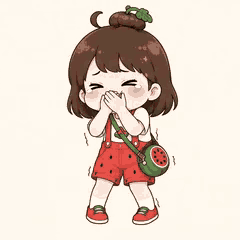
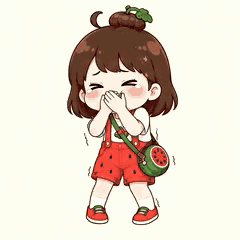
fix: recorrect 难绷憋笑 cherry-red; require color QC in skill

diff --git a/src/lib/packs.ts b/src/lib/packs.ts
@@ -247,11 +247,11 @@ export const PACKS: Pack[] = [
 ];
 
 export function stickerGif(packId: string, stickerId: string) {
-  return `/stickers/${packId}/${stickerId}.gif?v=77`;
+  return `/stickers/${packId}/${stickerId}.gif?v=78`;
 }
 
 export function stickerPng(packId: string, stickerId: string) {
-  return `/stickers/${packId}/${stickerId}.png?v=77`;
+  return `/stickers/${packId}/${stickerId}.png?v=78`;
 }
 
 export function getPack(id: string) {

diff --git a/src/routes/pack.$id.tsx b/src/routes/pack.$id.tsx
@@ -81,7 +81,7 @@ function PackPage() {
           </button>
           {inProgress ? null : (
             <a
-              href={`/downloads/${pack.id}.zip?v=77`}
+              href={`/downloads/${pack.id}.zip?v=78`}
               download={`${pack.name}.zip`}
               className="inline-flex h-11 items-center justify-center rounded-md border border-line px-4 text-sm font-semibold text-ink"
             >

diff --git a/public/downloads/duomei-stickers-SKILL.md b/public/downloads/duomei-stickers-SKILL.md
@@ -1,33 +1,100 @@
 ---
 name: duomei-stickers
 description: >
-  多美表情包。默认西瓜原皮，用户可指定皮肤或让你生成新皮肤。
-  6秒视频取约3秒完整动作，ffmpeg 转 GIF，必须 30fps。
-  Triggers: 表情包, sticker, GIF, 多美, 打你, 暴躁, 上号, 日常, 皮肤, 设定图.
+  多美表情包通用制作流程。主角永远是多美。用户只说主题时先读本 skill 再开工。
+  默认西瓜原皮；6秒视频取约3秒；ffmpeg 转 240×240 GIF；30fps；400–500KB。
+  Triggers: 表情包, sticker, GIF, 多美, 贴纸, 皮肤, 设定图.
 metadata:
-  short-description: "默认原皮，可指定/生成皮肤，3秒30fps GIF"
+  short-description: "多美表情包：搜热门 / 3s 30fps / 400-500KB / 过不了必须改"
 user-invocable: true
 ---
 
-# 皮肤
+# 每次开工
 
-- **没说皮肤 = 西瓜原皮**（红背带、白T、西瓜包、西瓜髻+藤）。不要每次强调「必须原皮」。
-- 用户指定皮肤就用指定的。
-- 用户让生成皮肤：出新设定图，存进 `public/refs/` 和 `assets/masters/`，以后这套都锁这张。
-- 设定图已经有：`public/refs/watermelon-white.jpg`（原皮）、`public/refs/duomei-master-sheet.jpg`。
+1. 读完本 skill。用户说「做××主题表情包」= 按这里执行，不要再问已定规矩。
+2. **先搜**这个主题的热门表情包（微信 / QQ / 微博、LINE、Telegram）。学做法：镜头、节奏、循环、什么时候加字。禁止抄 gag、抄构图、抄别人角色。
+3. 先写这一套的动作清单（默认 16 张）。每张：姿势、镜头、情绪、打谁、加不加字。动作必须互不相同。
+4. 用户没点名的旧表情 **禁止重做**（不许顺手改时长、改字、换动作）。
 
-# 强制流程（跳过 = 不许交付）
+# 角色
 
-1. 看实物，学**做法**。不抄别人的 gag 和构图。
-2. 写出方案。没让改的表情禁止重做。
-3. **一板多张**静帧，打分过了才做 **6 秒** 视频。
-4. **视频检查**：动作合理。不对就重生成。分身、多手、脸漂 = 打回。
-5. **视频转 GIF**：ffmpeg 整段转。取 **约 3 秒** 完整动作，**30fps**。禁止抽成几张静帧。
-6. **GIF 再查**：时长约 3 秒，封面 = 第一帧，格子能看懂。
-7. 飞踢必须把猪踢飞，不能站着挨踢。
+- **主角永远是多美。** 脸、发型、体型不许换。
+- **没说皮肤 = 西瓜原皮**（红背带、白 T、西瓜包、西瓜髻 + 藤、红鞋）。
+- 指定皮肤就换。让生成新皮肤：先出设定图，存设定图，这套全部锁这张。
+- 一套一种皮。禁止中途换脸换头。
+- 原皮设定图：`public/refs/watermelon-white.jpg`。
 
-及格线：
-- 成品约 3 秒、30fps
-- 默认原皮；指定了皮肤就换
-- 标题 = 画面动作
-- 打人要生气，禁止微笑打人
+# 颜色（每次交付前必须做，过不了不许发）
+
+对照 `public/refs/watermelon-white.jpg`（或这套锁定的设定图），把 GIF **第一帧、中间帧、最后一帧** 和设定图并排看。
+
+必须：
+- 背带是樱桃红（参考大约 R 210–225，G 80–100，B 70–85），不是灰、绿、橘、品红、棕
+- 底是奶油白，不是黄绿、脏黄、灰
+- 皮肤不是发青、发灰
+- 压缩后不能丢色。palette **尽量 48–64**，32 是下限。禁止 8/16 色把红衣服压灰
+- 源视频已经偏色 = **重生成视频**，不要硬转
+- 转 GIF 可用 `eq` / `colorbalance` 拉红，但不要整段发紫
+
+只看文件大小、不看图就发 = 没检查。这一关不过 = 没交付。
+
+# 规格（缺一条打回）
+
+| 项 | 标准 |
+|---|---|
+| 画幅 | 1:1，成品 240×240 |
+| 视频 | 6 秒、480p、1:1，再截约 3 秒完整动作 |
+| GIF | 约 3 秒，动作做完。禁止半截、禁止倒放当循环 |
+| 帧率 | **每秒 30 帧**，不是总帧数 30 |
+| 体积 | **400KB–500KB** |
+| 循环 | 无限，收尾帧对得上 |
+| 画质 | 红衣服必须是红的。禁止糊、锯齿、紫边、抠图描边、脚被裁掉 |
+| 颜色压缩 | palette ≥32 色。超体积用 gifsicle 有损，禁止砍到 8 色发灰 |
+
+# 流程（跳过不许交付）
+
+1. 搜热门 → 写 16 个不同动作（站、坐、躺、打、踢、转身、特写都要有，禁止全员站着）。
+2. 静帧过了才做视频。提示词锁多美这张脸、两只手两条腿、红鞋完整。不要把标题汉字写进提示词（模型会画进画面）。
+3. **查视频**：标题对不对、动作做完没、有没有分身/多手/脸漂/残字/微笑打人。不合格重生成视频，不许硬转 GIF。
+4. ffmpeg **整段视频转 GIF**。禁止抽几张静帧拼。
+5. **查 GIF**：连贯、约 3 秒、30fps、封面=第一帧且和点进去一致、体积 400–500KB。
+6. **查颜色（强制）**：GIF 首/中/尾帧和设定图并排看。红衣服发灰/发绿/发橘/发品红，或背景发黄绿 = 打回。过不了不许发。
+7. 过不了必须改。只写报告不改 = 没做完。
+8. 改完再更新下载包，禁止把旧 zip 交给用户。
+
+# 动作
+
+- 每张单独设计，禁止复制粘贴只改字。
+- 标题 = 画面正在发生的事。
+- 打、抽、踢、扇：要生气、要快、要连续，禁止微笑、禁止摆拍一下。攻击类可加受击物，击打要合理。
+- 不会动的装饰别加。不是每张都要花字特效。
+- 背景可以有情景，不必强行纯色抠图。
+
+# 文字（自己判断，不许一刀切）
+
+- 口头禅、夸人、游戏黑话：适合加。
+- 纯动作（打、踢、踩、翻白眼）：默认不加。
+- 视频里已经有字，不要再叠一层。
+- 字不要挡脸。大字可以当背景。字色不要和红衣服撞。
+- 禁止乱码、禁止没让加的字。
+
+# 主题
+
+往年轻人会用的靠：节日、美食（一套就够）、游戏黑话、日常吐槽。国旗用中国国旗。不要生造没人会发的句子。
+
+# 禁止
+
+- 抄别人角色和动作
+- 换掉多美的脸、一套里换头
+- 全站着同质化
+- 假动图、4 帧充数、倒放充循环
+- 没查就交付、没做完提前交付
+- 体积不在 400–500KB 还交
+- 颜色失真还交（没和设定图并排看就发）
+
+# 交付
+
+- 单张可以直接丢对话里播。改完一张，必须把那张 GIF 文件发到对话里，禁止只丢页面链接让用户自己点进去。
+- 发之前必须已经完成「查颜色」。没并排看设定图 = 不许发。
+- 格子里直接播 GIF，点击放大下载，显示体积。
+- 整套做完、审核过了才交。

diff --git a/.grok/skills/duomei-stickers/SKILL.md b/.grok/skills/duomei-stickers/SKILL.md
@@ -24,6 +24,20 @@ user-invocable: true
 - 一套一种皮。禁止中途换脸换头。
 - 原皮设定图：`public/refs/watermelon-white.jpg`。
 
+# 颜色（每次交付前必须做，过不了不许发）
+
+对照 `public/refs/watermelon-white.jpg`（或这套锁定的设定图），把 GIF **第一帧、中间帧、最后一帧** 和设定图并排看。
+
+必须：
+- 背带是樱桃红（参考大约 R 210–225，G 80–100，B 70–85），不是灰、绿、橘、品红、棕
+- 底是奶油白，不是黄绿、脏黄、灰
+- 皮肤不是发青、发灰
+- 压缩后不能丢色。palette **尽量 48–64**，32 是下限。禁止 8/16 色把红衣服压灰
+- 源视频已经偏色 = **重生成视频**，不要硬转
+- 转 GIF 可用 `eq` / `colorbalance` 拉红，但不要整段发紫
+
+只看文件大小、不看图就发 = 没检查。这一关不过 = 没交付。
+
 # 规格（缺一条打回）
 
 | 项 | 标准 |
@@ -43,9 +57,10 @@ user-invocable: true
 2. 静帧过了才做视频。提示词锁多美这张脸、两只手两条腿、红鞋完整。不要把标题汉字写进提示词（模型会画进画面）。
 3. **查视频**：标题对不对、动作做完没、有没有分身/多手/脸漂/残字/微笑打人。不合格重生成视频，不许硬转 GIF。
 4. ffmpeg **整段视频转 GIF**。禁止抽几张静帧拼。
-5. **查 GIF**：连贯、约 3 秒、30fps、封面=第一帧且和点进去一致、体积 400–500KB、颜色没坏。
-6. 过不了必须改。只写报告不改 = 没做完。
-7. 改完再更新下载包，禁止把旧 zip 交给用户。
+5. **查 GIF**：连贯、约 3 秒、30fps、封面=第一帧且和点进去一致、体积 400–500KB。
+6. **查颜色（强制）**：GIF 首/中/尾帧和设定图并排看。红衣服发灰/发绿/发橘/发品红，或背景发黄绿 = 打回。过不了不许发。
+7. 过不了必须改。只写报告不改 = 没做完。
+8. 改完再更新下载包，禁止把旧 zip 交给用户。
 
 # 动作
 
@@ -75,9 +90,11 @@ user-invocable: true
 - 假动图、4 帧充数、倒放充循环
 - 没查就交付、没做完提前交付
 - 体积不在 400–500KB 还交
+- 颜色失真还交（没和设定图并排看就发）
 
 # 交付
 
 - 单张可以直接丢对话里播。改完一张，必须把那张 GIF 文件发到对话里，禁止只丢页面链接让用户自己点进去。
+- 发之前必须已经完成「查颜色」。没并排看设定图 = 不许发。
 - 格子里直接播 GIF，点击放大下载，显示体积。
 - 整套做完、审核过了才交。
